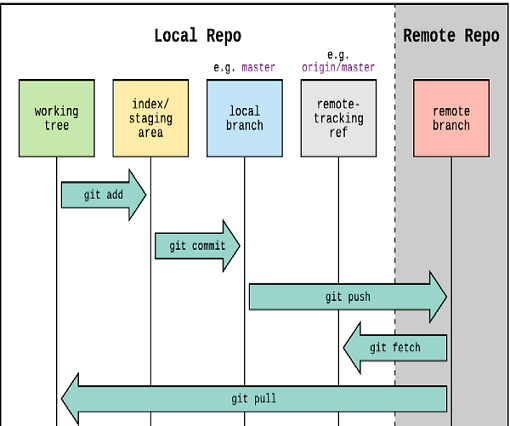
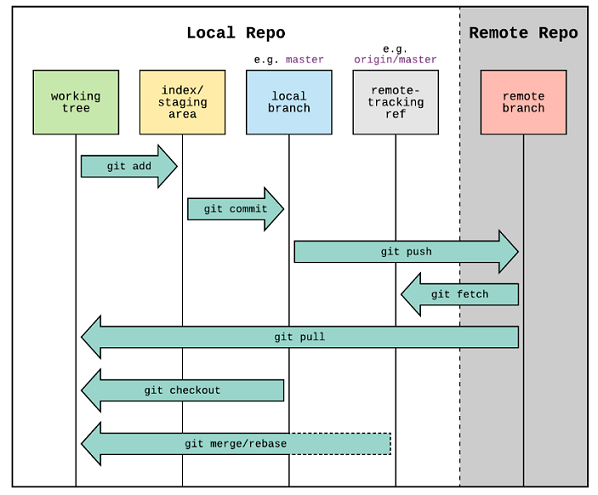
Task : Added new images

diff --git a/Git_commands.md b/Git_commands.md
@@ -1,4 +1,4 @@
-## GITFLOW  
+## GITFLOW  
    
  Git is a set of layers and each layer kind of has a function. The function is dependent on the layer but all you do with Git is you move files between these layers, and the layers provide error control, redundancy, and more things. Image below shows how gitflow works.  
   
@@ -9,52 +9,69 @@
   
 ## Git commands and terminology you should know :
   
-**Repository**: Git repository is simply a file that you create in your computer and you want to initialize git in it  
+**Repository**:  
   
-**Clone**: This command gives us a copy of repository that we want to work on and collaborate  
+Git repository is simply a file that you create in your computer and you want to initialize git in it  
+  
+**Clone**:  
+  
+This command gives us a copy of repository that we want to work on and collaborate  
   
  ![Git Clone](/image/clone2.png)  
   
-**Fork**: This command copies repository for you and allows you make changes, collaborate on a project without affecting the master branch  
+**Fork**:  
+  
+This command copies repository for you and allows you make changes, collaborate on a project without affecting the master branch  
   
  ![Git Fork](/image/fork.png)  
   
 **Branch** :  
   
-Usage: git branch : This command lists all the local branches in the current repository  
+Usage: git branch   
+This command lists all the local branches in the current repository  
      
-Usage: git branch [branch name]: This command creates a new branch.
+Usage: git branch [branch name]  
+This command creates a new branch.
   
 ![Git branch](/image/branch.png)  
   
-**Commit** : The files that we added to the staging area, the snapshots that we took, are needed to be committed in order to be saved. Commit does the function of saving changes/new files to our our branch. For example, we changed the file Tutorial.md and added it to the staging are. We need to do git.commit –m ‘Feature: Added definition of A’ to save changes that we made. Now our file is ready to push. You can write a short message so that in the future when you look back through your commits,you can see what each commit did. And it's important to have reasonably descriptive commit messages.  
+**Commit** :  
+  
+The files that we added to the staging area, the snapshots that we took, are needed to be committed in order to be saved. Commit does the function of saving changes/new files to our our branch. For example, we changed the file Tutorial.md and added it to the staging are. We need to do git.commit –m ‘Feature: Added definition of A’ to save changes that we made. Now our file is ready to push. You can write a short message so that in the future when you look back through your commits,you can see what each commit did. And it's important to have reasonably descriptive commit messages.  
   
 ![Git commit](/image/commit.png)  
   
 **Merge** :
       
-Usage: git merge [branch name] : This command merges the specified branch’s history into the current branch
+Usage: git merge [branch name]  
+This command merges the specified branch’s history into the current branch
 
 **Checkout**:  
   
-Usage: git checkout [branch name] :This command is used to switch from one branch to another.  
+Usage: git checkout [branch name]  
+This command is used to switch from one branch to another.  
   
-Usage: git checkout -b [branch name]: This command creates a new branch and also switches to it  
+Usage: git checkout -b [branch name]  
+This command creates a new branch and also switches to it  
   
 ![Git checkout](/image/checkout.png)  
   
 **Push** :  
     
-Usage: git push [variable name] master  : This command sends the committed changes of master branch to your remote repository.  
+Usage: git push [variable name] master  
+This command sends the committed changes of master branch to your remote repository.  
   
-Usage: git push [variable name] [branch] : This command sends the branch commits to your remote repository  
+Usage: git push [variable name] [branch]  
+This command sends the branch commits to your remote repository  
   
-Usage: git push –all [variable name] : This command pushes all branches to your remote repository  
+Usage: git push –all [variable name]  
+This command pushes all branches to your remote repository  
   
 ![Git push](/image/push.png)  
   
 **Pull** : 
   
-Usage: git pull [Repository Link] : This command fetches and merges changes on the remote server to your working directory.
+Usage: git pull [Repository Link]  
+This command fetches and merges changes on the remote server to your working directory.
   
 ![Git pull](/image/pull.png) 
